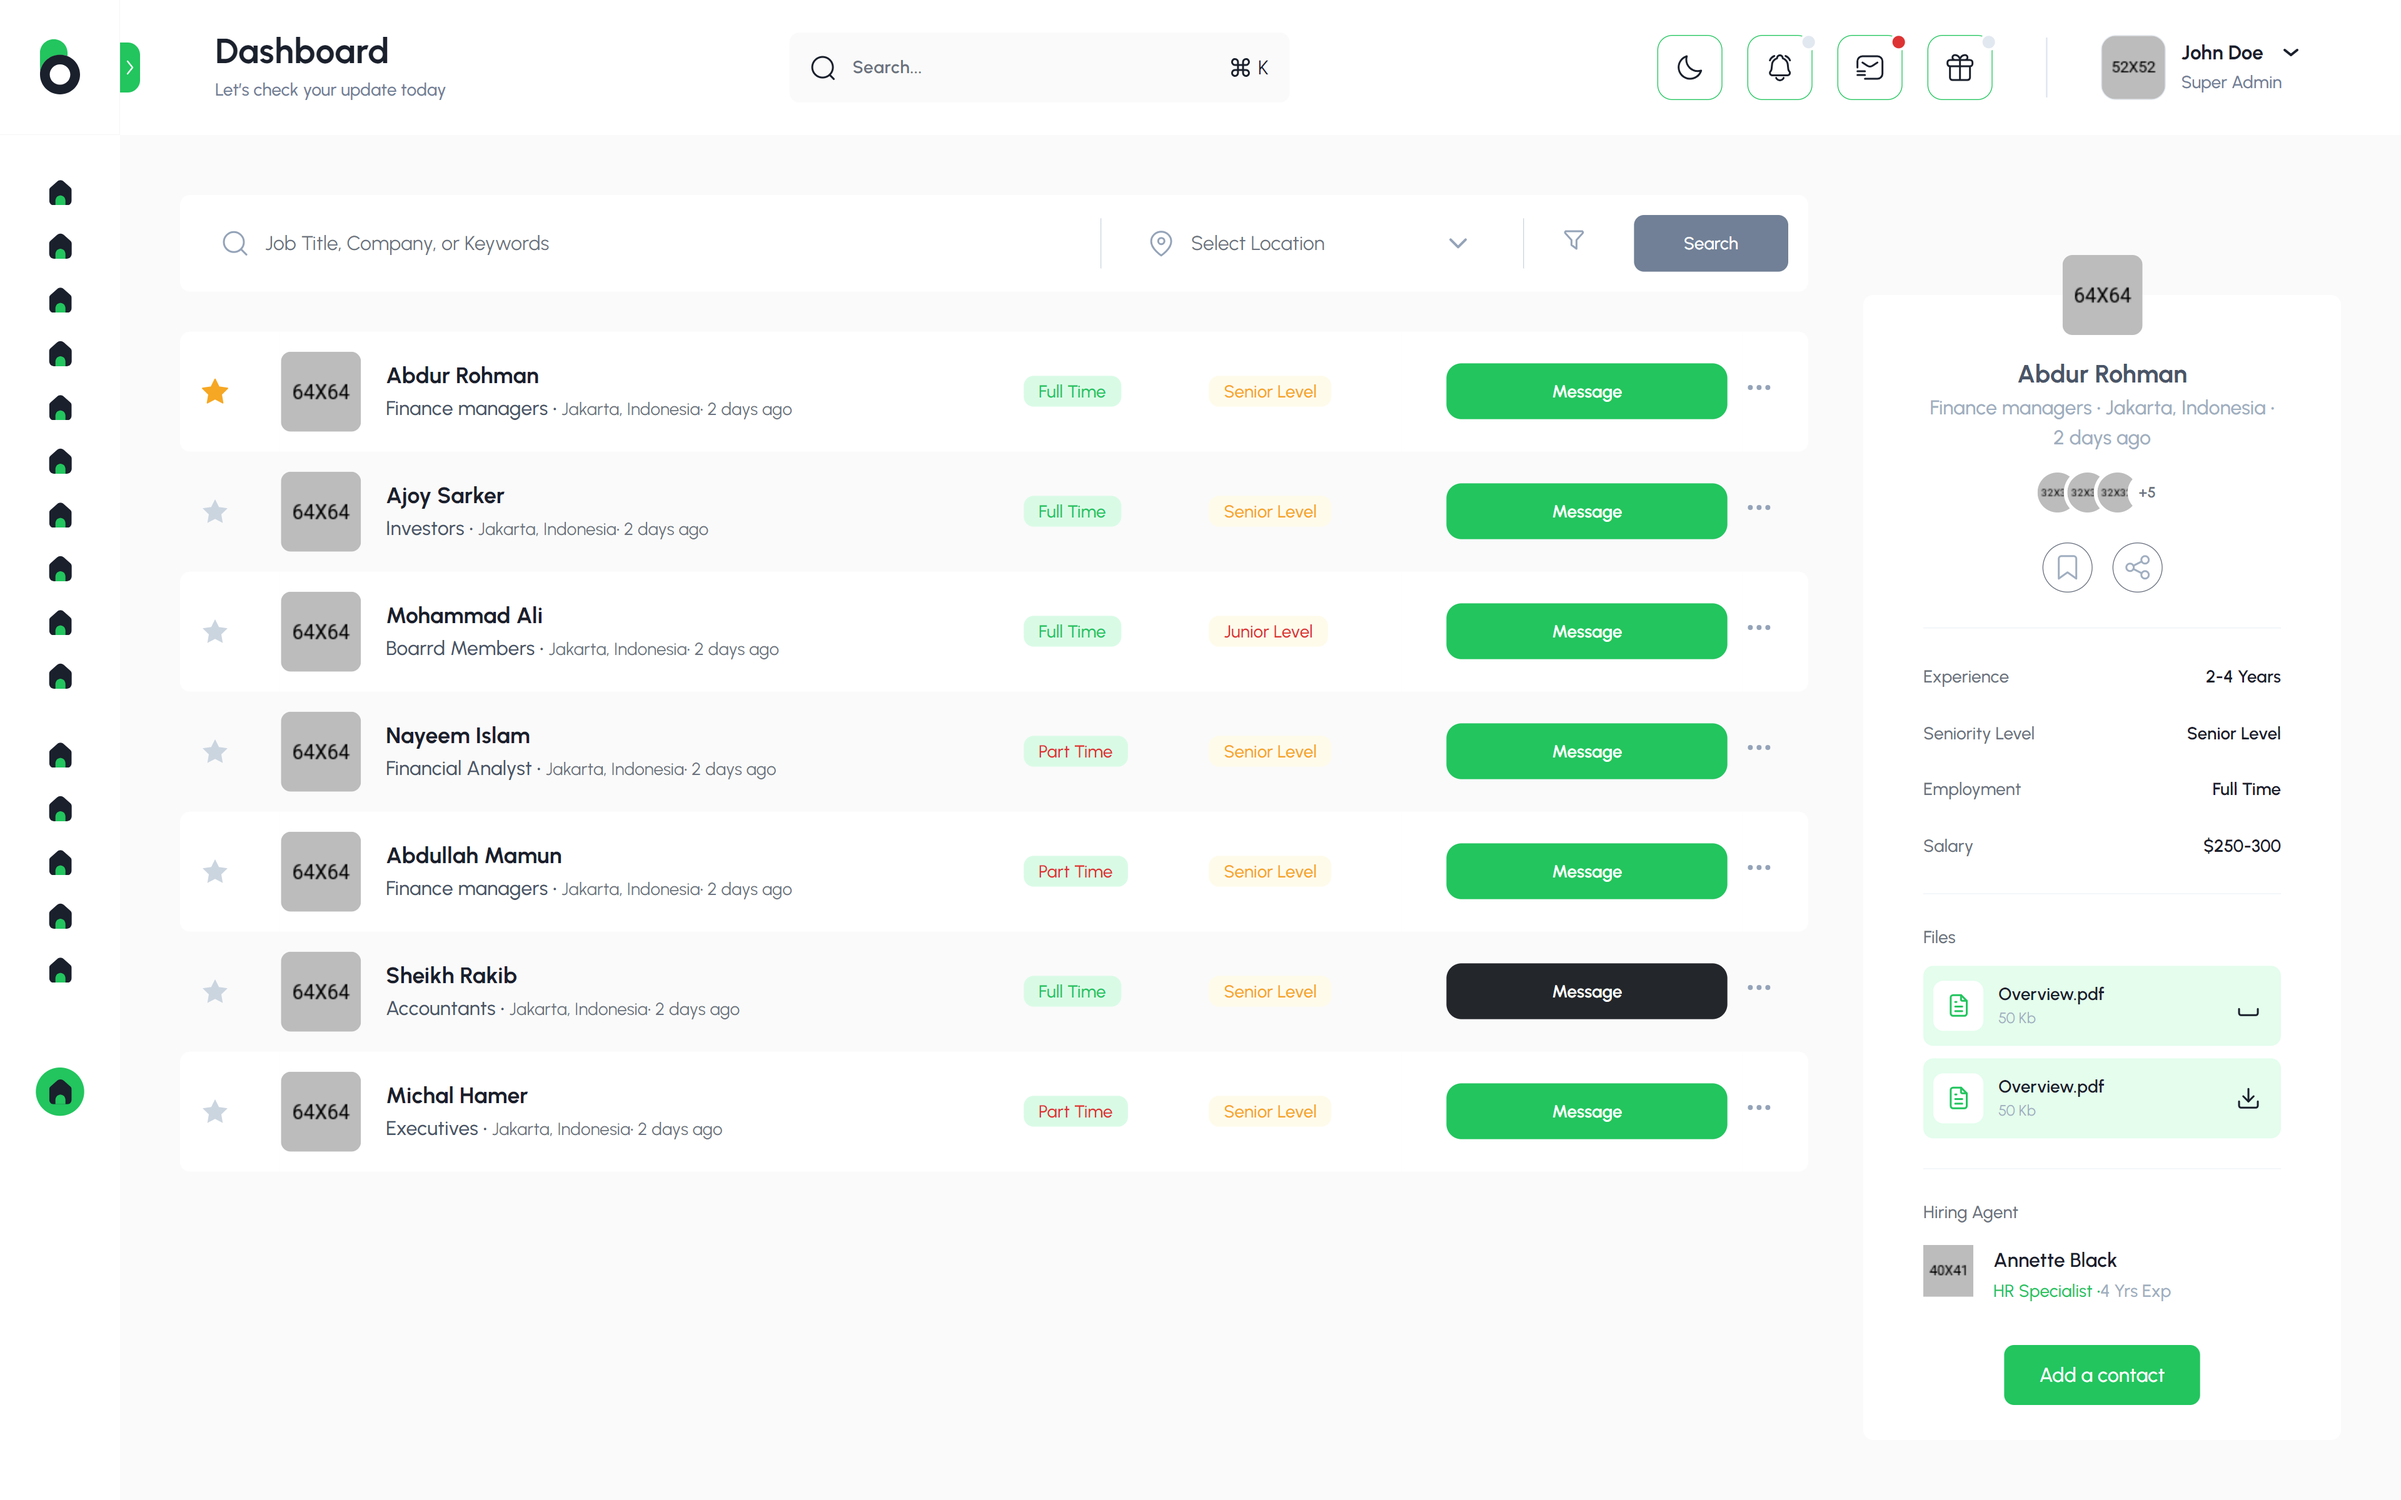
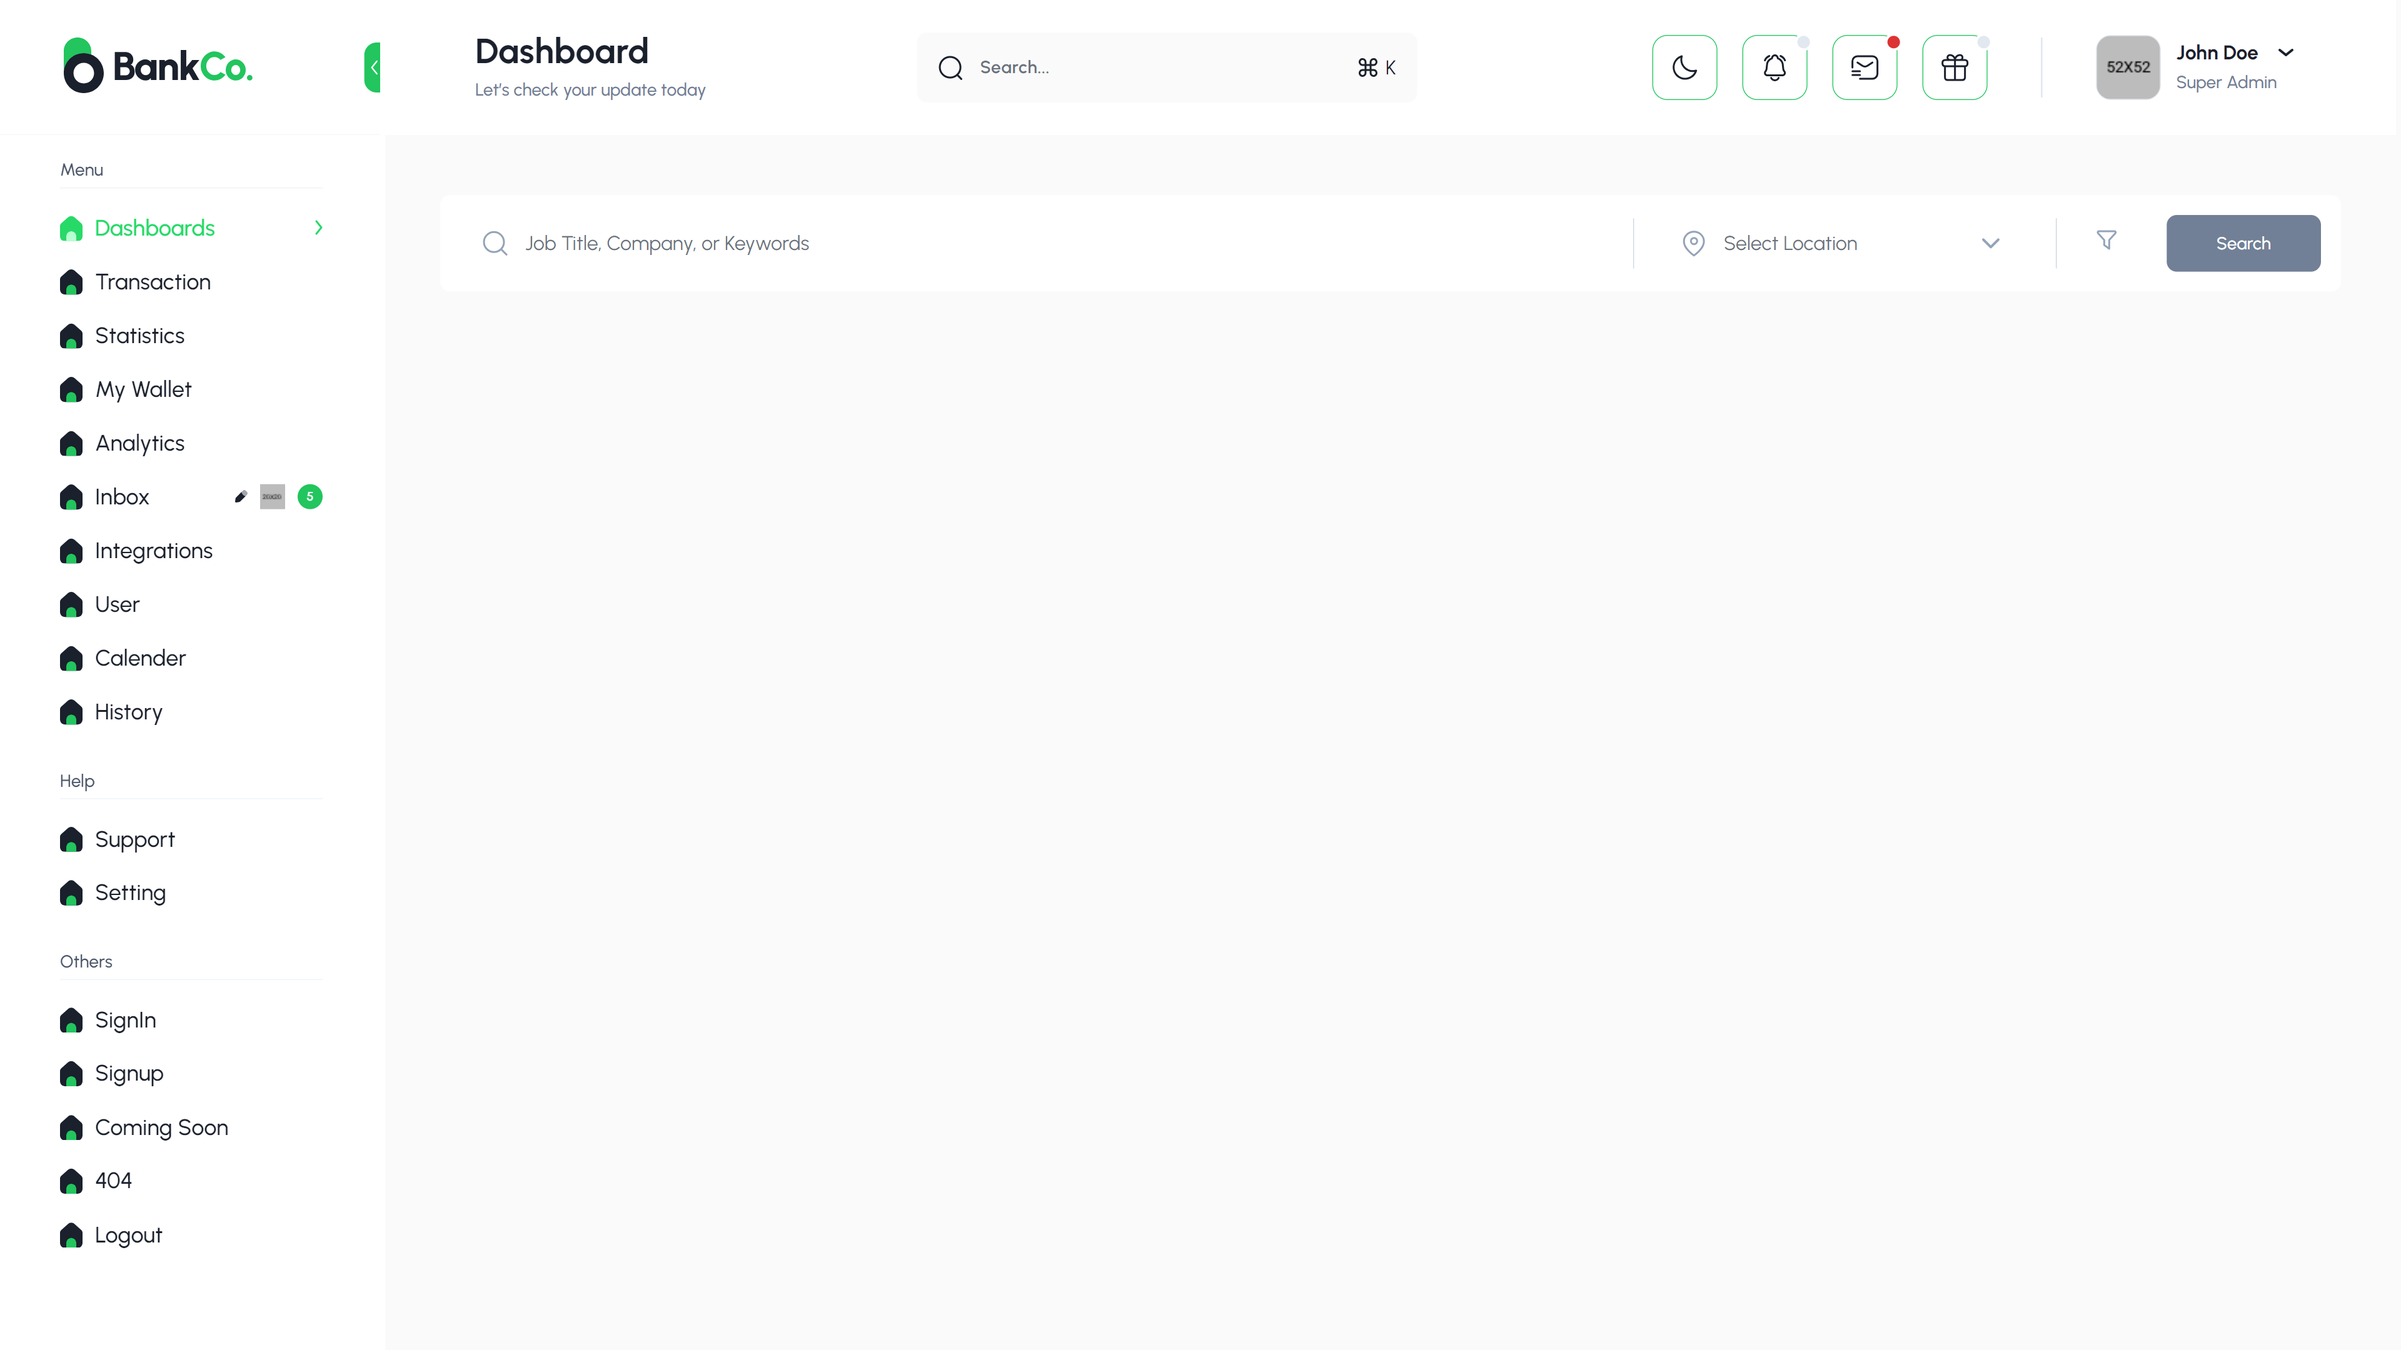
cd_6 user

diff --git a/src/pages/users/index.jsx b/src/pages/users/index.jsx
@@ -1,17 +1,11 @@
 import UserFilter from "../../component/forms/UserFilter";
-import UsersList from "../../component/user/UsersList";
-import RightSidebar from "../../component/user/RightSidebar";
-
 function Users() {
   return (
     <main className="w-full xl:px-[48px] px-6 pb-6 xl:pb-[48px] sm:pt-[156px] pt-[100px] dark:bg-darkblack-700 ">
-      {/* write your code here */}
       <div className="flex 2xl:flex-row 2xl:space-x-11 flex-col space-y-20">
         <div className="2xl:flex-1 w-full">
           <UserFilter />
-          <UsersList />
         </div>
-        <RightSidebar />
       </div>
     </main>
   );
